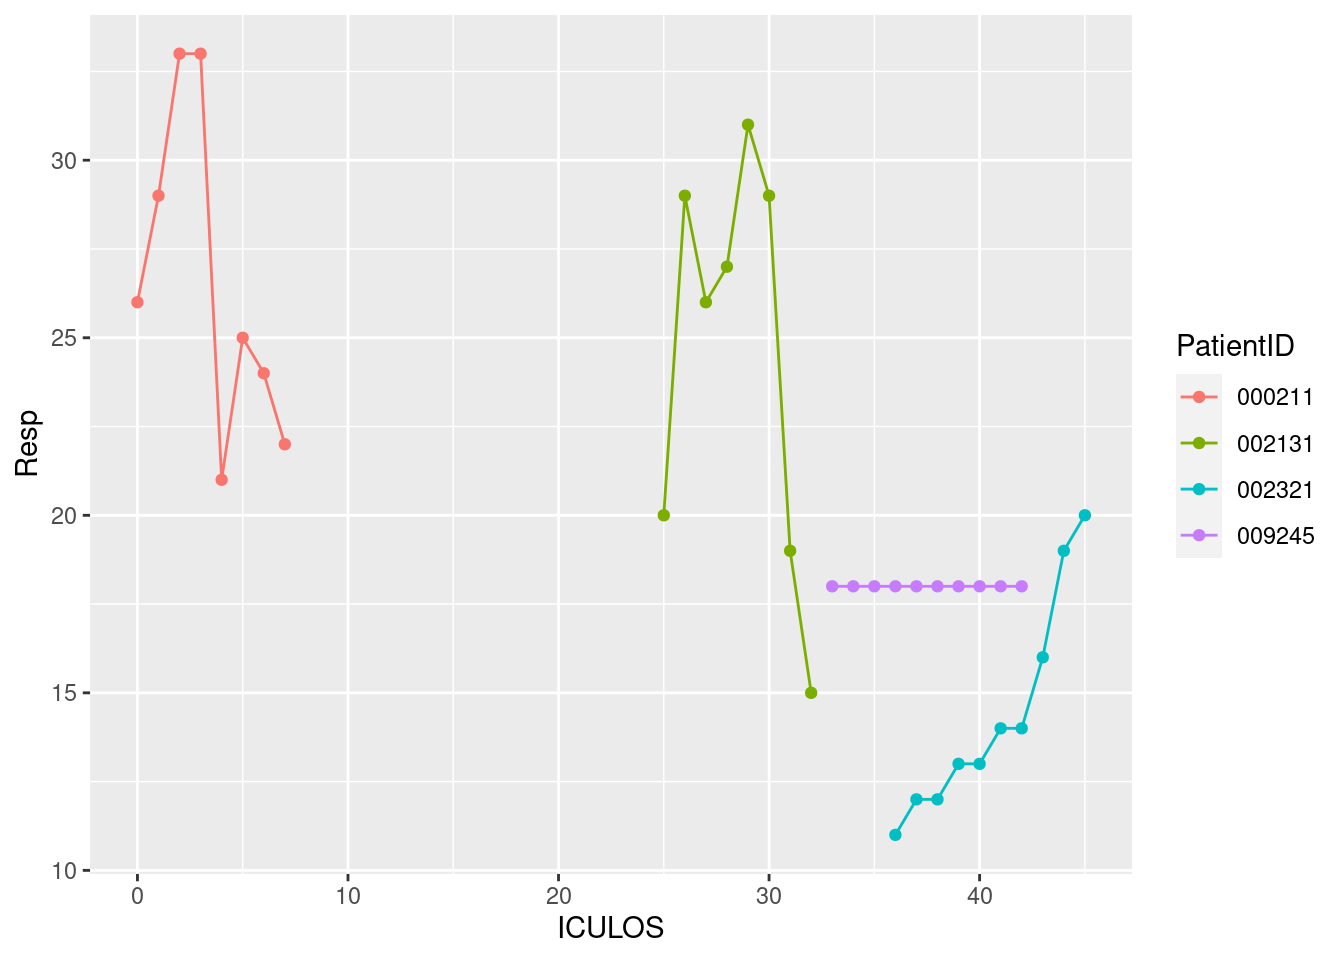
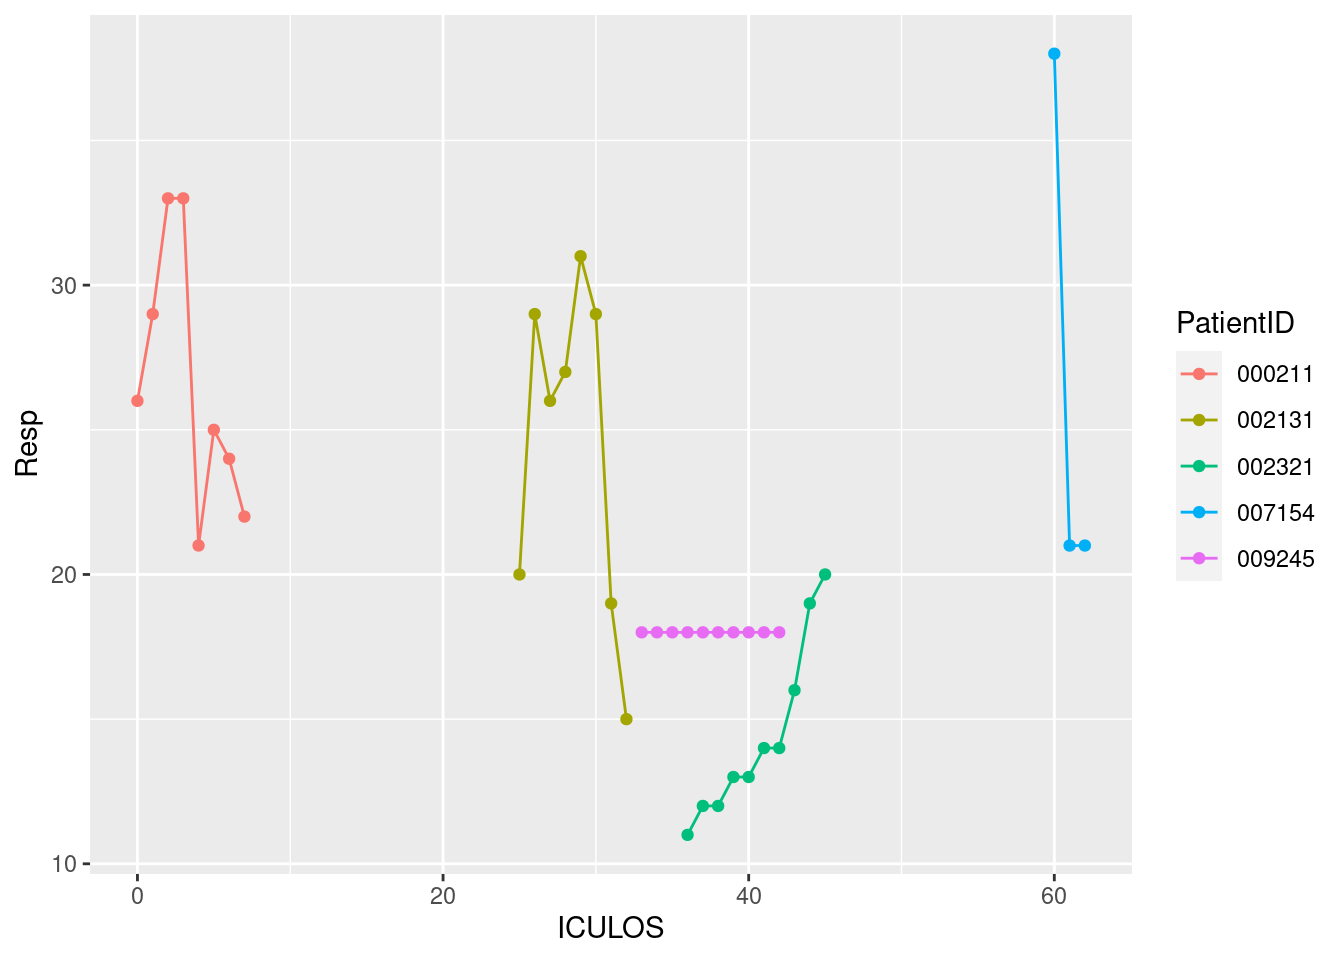
Updated report

diff --git a/a7qmd.html b/a7qmd.html
@@ -80,7 +80,7 @@ ul.task-list li input[type="checkbox"] {
 <h2 class="anchored" data-anchor-id="current-date-and-time">Current date and time</h2>
 <div class="cell">
 <div class="cell-output cell-output-stdout">
-<pre><code>[1] "2023-04-12 05:16:17 UTC"</code></pre>
+<pre><code>[1] "2023-04-12 06:21:36 UTC"</code></pre>
 </div>
 </div>
 </section>
@@ -117,6 +117,12 @@ ul.task-list li input[type="checkbox"] {
 <td style="text-align: right;">20</td>
 </tr>
 <tr class="even">
+<td style="text-align: left;">007154</td>
+<td style="text-align: right;">107</td>
+<td style="text-align: right;">NA</td>
+<td style="text-align: right;">21</td>
+</tr>
+<tr class="odd">
 <td style="text-align: left;">009245</td>
 <td style="text-align: right;">88</td>
 <td style="text-align: right;">NA</td>
@@ -199,9 +205,9 @@ ul.task-list li input[type="checkbox"] {
 </tr>
 <tr class="even">
 <td style="text-align: left;">000939</td>
-<td style="text-align: right;">-9</td>
+<td style="text-align: right;">1</td>
 <td style="text-align: right;">NA</td>
-<td style="text-align: right;">-7</td>
+<td style="text-align: right;">-1</td>
 </tr>
 <tr class="odd">
 <td style="text-align: left;">001080</td>
@@ -367,9 +373,9 @@ ul.task-list li input[type="checkbox"] {
 </tr>
 <tr class="even">
 <td style="text-align: left;">007154</td>
-<td style="text-align: right;">-16</td>
+<td style="text-align: right;">5</td>
 <td style="text-align: right;">NA</td>
-<td style="text-align: right;">14</td>
+<td style="text-align: right;">0</td>
 </tr>
 <tr class="odd">
 <td style="text-align: left;">007365</td>
